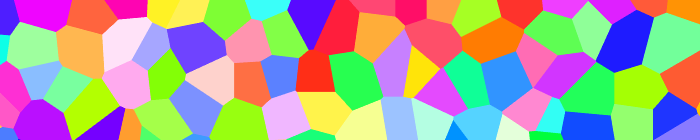
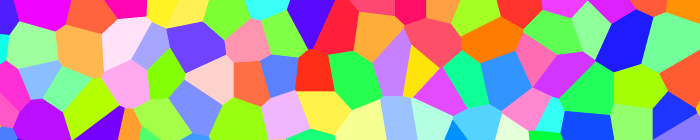
update png dependency

diff --git a/tests/noise/tests.swift b/tests/noise/tests.swift
@@ -1,25 +1,5 @@
 import Noise
-import MaxPNG
-
-func write_png(path:String, width:Int, height:Int, pixbytes:UnsafeBufferPointer<UInt8>, color:PNGProperties.ColorFormat)
-{
-    guard let properties = PNGProperties(width: width, height: height, bit_depth: 8, color: color, interlaced: false)
-    else
-    {
-        fatalError("failed to set png properties")
-    }
-
-    do
-    {
-        try png_encode( path: path,
-                        raw_data: pixbytes,
-                        properties: properties)
-    }
-    catch
-    {
-        print(error)
-    }
-}
+import PNG
 
 extension UInt8
 {
@@ -32,40 +12,32 @@ extension UInt8
 func color_noise_png(r_noise:Noise, g_noise:Noise, b_noise:Noise,
     width:Int, height:Int, value_offset:(r:Double, g:Double, b:Double), invert:Bool = false, path:String)
 {
-    let byte_count:Int = 3 * width * height
-    let pixbytes = UnsafeMutableBufferPointer<UInt8>(start: UnsafeMutablePointer<UInt8>.allocate(capacity: byte_count), count: byte_count)
-    defer
+    let domain:Domain2D         = .init(samples_x: width, samples_y: height)
+    let rgba:[PNG.RGBA<UInt8>]  = domain.map 
     {
-        pixbytes.baseAddress?.deallocate(capacity: pixbytes.count)
-    }
-
-    var i:Int = 0
-    for (x, y):(Double, Double) in Domain2D(samples_x: width, samples_y: height)
-    {
-        let r:UInt8 = UInt8(clamping: r_noise.evaluate(x, y) + value_offset.r),
-            g:UInt8 = UInt8(clamping: g_noise.evaluate(x, y) + value_offset.g),
-            b:UInt8 = UInt8(clamping: b_noise.evaluate(x, y) + value_offset.b)
+        (p:(x:Double, y:Double)) in 
+        
+        let r:UInt8 = .init(clamping: r_noise.evaluate(p.x, p.y) + value_offset.r),
+            g:UInt8 = .init(clamping: g_noise.evaluate(p.x, p.y) + value_offset.g),
+            b:UInt8 = .init(clamping: b_noise.evaluate(p.x, p.y) + value_offset.b)
         if invert
         {
-            pixbytes[i    ] = UInt8.max - r
-            pixbytes[i + 1] = UInt8.max - g
-            pixbytes[i + 2] = UInt8.max - b
+            return .init(.max - r, .max - g, .max - b)
         }
         else
         {
-            pixbytes[i    ] = r
-            pixbytes[i + 1] = g
-            pixbytes[i + 2] = b
+            return .init(r, g, b)
         }
-
-        i += 3
     }
-
-    write_png(  path: path,
-                width: width,
-                height: height,
-                pixbytes: UnsafeBufferPointer<UInt8>(start: pixbytes.baseAddress, count: pixbytes.count),
-                color: .rgb)
+    
+    do
+    {
+        try PNG.encode(rgba: rgba, size: (width, height), as: .rgb8, path: path)
+    }
+    catch
+    {
+        print(error)
+    }
 }
 
 func banner_classic3d(width:Int, height:Int, seed:Int)
@@ -173,87 +145,92 @@ func circle_at(cx:Double, cy:Double, r:Double, width:Int, height:Int, _ f:(Int, 
 
 func banner_disk2d(width:Int, height:Int, seed:Int)
 {
-    var poisson          = DiskSampler2D(seed: seed)
-    var pixbytes:[UInt8] = [UInt8](repeating: 255, count: 3 * width * height)
+    var poisson:DiskSampler2D       = .init(seed: seed)
+    var rgba:[PNG.RGBA<UInt8>]    = .init(repeating: .init(.max), count: width * height)
 
-    let points = poisson.generate(radius: 20, width: width, height: height, k: 80)
+    //let points = poisson.generate(radius: 20, width: width, height: height, k: 80)
 
     @inline(__always)
     func _dots(_ points:[(x:Double, y:Double)], color: (r:UInt8, g:UInt8, b:UInt8))
     {
         for point:(x:Double, y:Double) in points
         {
-            circle_at(cx: point.x, cy: point.y, r: 10, width: width, height: height,
+            circle_at(cx: point.x, cy: point.y, r: 10, width: width, height: height)
             {
                 (x:Int, y:Int, v:Double) in
 
-                let base_addr:Int = 3 * (y * width + x)
-                pixbytes[base_addr    ] = UInt8(clamping: Int(pixbytes[base_addr    ]) - Int(Double(color.r) * v))
-                pixbytes[base_addr + 1] = UInt8(clamping: Int(pixbytes[base_addr + 1]) - Int(Double(color.g) * v))
-                pixbytes[base_addr + 2] = UInt8(clamping: Int(pixbytes[base_addr + 2]) - Int(Double(color.b) * v))
-            })
+                let i:Int = y * width + x
+                rgba[i].r = .init(clamping: Int(rgba[i].r) - Int(Double(color.r) * v))
+                rgba[i].g = .init(clamping: Int(rgba[i].g) - Int(Double(color.g) * v))
+                rgba[i].b = .init(clamping: Int(rgba[i].b) - Int(Double(color.b) * v))
+            }
         }
     }
 
     _dots(poisson.generate(radius: 35, width: width, height: height, k: 80, seed: (10, 10)), color: (0, 210, 70))
     _dots(poisson.generate(radius: 25, width: width, height: height, k: 80, seed: (45, 15)), color: (0, 10, 235))
     _dots(poisson.generate(radius: 30, width: width, height: height, k: 80, seed: (15, 45)), color: (225, 20, 0))
-
-    pixbytes.withUnsafeBufferPointer
+    
+    do
     {
-        write_png(path: "tests/banner_disk2d.png", width: width, height: height, pixbytes: $0, color: .rgb)
+        try PNG.encode(rgba: rgba, size: (width, height), as: .rgb8, path: "tests/banner_disk2d.png")
+    }
+    catch
+    {
+        print(error)
     }
 }
 
 func banner_voronoi2d(width:Int, height:Int, seed:Int)
 {
     let voronoi:CellNoise2D = CellNoise2D(amplitude: 255, frequency: 0.025, seed: seed)
-    var pixbytes:[UInt8] = [UInt8](repeating: 0, count: 3 * width * height)
 
     let r:PermutationTable   = PermutationTable(seed: seed),
         g:PermutationTable   = PermutationTable(seed: seed + 1),
         b:PermutationTable   = PermutationTable(seed: seed + 2)
 
-    var base_addr:Int = 0
-    for y in 0 ..< height
+    let domain:Domain2D         = .init(samples_x: width, samples_y: height)
+    let rgba:[PNG.RGBA<UInt8>]  = domain.map 
     {
-        for x in 0 ..< width
+        (p:(x:Double, y:Double)) in 
+        
+        @inline(__always)
+        func _supersample(_ x:Double, _ y:Double) -> (r:UInt8, g:UInt8, b:UInt8)
         {
-            @inline(__always)
-            func _supersample(_ x:Double, _ y:Double) -> (r:UInt8, g:UInt8, b:UInt8)
-            {
-                let (point, _):((Int, Int), Double) = voronoi.closest_point(Double(x), Double(y))
-                let r:UInt8 = r.hash(point.0, point.1),
-                    g:UInt8 = g.hash(point.0, point.1),
-                    b:UInt8 = b.hash(point.0, point.1),
-                    peak:UInt8 = max(r, max(g, b)),
-                    saturate:Double = Double(UInt8.max) / Double(peak)
-                return (UInt8(Double(r) * saturate), UInt8(Double(g) * saturate), UInt8(Double(b) * saturate))
-            }
-
-            var r:Int = 0,
-                g:Int = 0,
-                b:Int = 0
-            let supersamples:[(Double, Double)] = [(0, 0), (0, 0.4), (0.4, 0), (-0.4, 0), (0, -0.4),
-                                                   (-0.25, -0.25), (0.25, 0.25), (-0.25, 0.25), (0.25, -0.25)]
-            for (dx, dy) in supersamples
-            {
-                let contribution:(r:UInt8, g:UInt8, b:UInt8) = _supersample(Double(x) + dx, Double(y) + dy)
-                r += Int(contribution.r)
-                g += Int(contribution.g)
-                b += Int(contribution.b)
-            }
-            pixbytes[base_addr    ] = UInt8(r / supersamples.count)
-            pixbytes[base_addr + 1] = UInt8(g / supersamples.count)
-            pixbytes[base_addr + 2] = UInt8(b / supersamples.count)
-
-            base_addr += 3
+            let (point, _):((Int, Int), Double) = voronoi.closest_point(Double(x), Double(y))
+            let r:UInt8 = r.hash(point.0, point.1),
+                g:UInt8 = g.hash(point.0, point.1),
+                b:UInt8 = b.hash(point.0, point.1),
+                peak:UInt8 = max(r, max(g, b)),
+                saturate:Double = .init(UInt8.max) / .init(peak)
+            return (.init(.init(r) * saturate), .init(.init(g) * saturate), .init(.init(b) * saturate))
         }
-    }
 
-    pixbytes.withUnsafeBufferPointer
+        var r:Int = 0,
+            g:Int = 0,
+            b:Int = 0
+        let supersamples:[(Double, Double)] = [(0, 0), (0, 0.4), (0.4, 0), (-0.4, 0), (0, -0.4),
+                                               (-0.25, -0.25), (0.25, 0.25), (-0.25, 0.25), (0.25, -0.25)]
+        for (dx, dy):(Double, Double) in supersamples
+        {
+            let contribution:(r:UInt8, g:UInt8, b:UInt8) = _supersample(p.x + dx, p.y + dy)
+            r += .init(contribution.r)
+            g += .init(contribution.g)
+            b += .init(contribution.b)
+        }
+        
+        return .init(   .init(r / supersamples.count), 
+                        .init(g / supersamples.count), 
+                        .init(b / supersamples.count))
+    }
+    
+    do
     {
-        write_png(path: "tests/banner_voronoi2d.png", width: width, height: height, pixbytes: $0, color: .rgb)
+        try PNG.encode(rgba: rgba, size: (width, height), as: .rgb8, path: "tests/banner_voronoi2d.png")
+    }
+    catch
+    {
+        print(error)
     }
 }
 

diff --git a/tests/noise/main.swift b/tests/noise/main.swift
@@ -1,7 +1,5 @@
 import Noise
-import MaxPNG
-
-import Tests
+import PNG
 
 import func Glibc.clock
 
@@ -11,7 +9,6 @@ calibrate_noise(width: 256, height: 256)
 
 let viewer_size:Int = 1024
 var pixbuf:[UInt8]  = [UInt8](repeating: 0, count: viewer_size * viewer_size)
-let png_properties:PNGProperties = PNGProperties(width: viewer_size, height: viewer_size, bit_depth: 8, color: .grayscale, interlaced: false)!
 
 func benchmark<Generator>(noise generator:Generator, name:String, offset:Double = 0) where Generator:Noise
 {
@@ -21,7 +18,7 @@ func benchmark<Generator>(noise generator:Generator, name:String, offset:Double 
         pixbuf[i] = UInt8(max(0, min(255, generator.evaluate(x, y) + offset)))
     }
     print("\(name): \(clock() - t0)")
-    try! png_encode(path: "tests/\(name).png", raw_data: pixbuf, properties: png_properties)
+    try! PNG.encode(v: pixbuf, size: (viewer_size, viewer_size), as: .v8, path: "tests/\(name).png")
 }
 
 var poisson = DiskSampler2D(seed: 0)
@@ -31,7 +28,7 @@ for point:(x:Double, y:Double) in poisson.generate(radius: 10, width: viewer_siz
     pixbuf[Int(point.y) * viewer_size + Int(point.x)] = 255
 }
 print("disk2d: \(clock() - t0)")
-try png_encode(path: "tests/disk2d.png", raw_data: pixbuf, properties: png_properties)
+try PNG.encode(v: pixbuf, size: (viewer_size, viewer_size), as: .v8, path: "tests/disk2d.png")
 
 benchmark(noise: CellNoise2D(amplitude: 255, frequency: 0.01), name: "cell2d")
 benchmark(noise: CellNoise3D(amplitude: 255, frequency: 0.01), name: "cell3d")

diff --git a/tests/noise/calibrate.swift b/tests/noise/calibrate.swift
@@ -1,25 +1,24 @@
 import Noise
-import MaxPNG
+import PNG
 
 func grayscale_noise_png(noise:Noise, width:Int, height:Int, value_offset:Double, path:String)
 {
-    let byte_count:Int = width * height
-    let pixbytes = UnsafeMutableBufferPointer<UInt8>(start: UnsafeMutablePointer<UInt8>.allocate(capacity: byte_count), count: byte_count)
-    defer
+    let domain:Domain2D = .init(-2 ... 2, -2 ... 2, samples_x: width, samples_y: height)
+    let v:[UInt8]       = domain.enumerated().map 
     {
-        pixbytes.baseAddress?.deallocate(capacity: pixbytes.count)
+        (element:(Int, (x:Double, y:Double))) in
+        
+        return .init(clamping: noise.evaluate(element.1.x, element.1.y) + value_offset)
     }
 
-    for (i, (x, y)) in Domain2D(-2 ... 2, -2 ... 2, samples_x: width, samples_y: height).enumerated()
+    do
     {
-        pixbytes[i] = UInt8(clamping: noise.evaluate(x, y) + value_offset)
+        try PNG.encode(v: v, size: (width, height), as: .v8, path: path)
     }
-
-    write_png(  path: path,
-                width: width,
-                height: height,
-                pixbytes: UnsafeBufferPointer<UInt8>(start: pixbytes.baseAddress, count: pixbytes.count),
-                color: .grayscale)
+    catch
+    {
+        print(error)
+    }
 }
 
 public

diff --git a/Package.swift b/Package.swift
@@ -1,22 +1,21 @@
-// swift-tools-version:4.0
+// swift-tools-version:4.2
 
 import PackageDescription
 
 let package = Package(
     name: "Noise",
-    products: [
-        .library(name: "Noise", targets: ["Noise"])
+    products: 
+    [
+        .library(name: "Noise", targets: ["Noise"]),
+        .executable(name: "noise-tests", targets: ["NoiseTests"])
     ],
-    dependencies: [
-        .package(url: "https://github.com/kelvin13/maxpng", from: "2.0.0")
+    dependencies: 
+    [
+        .package(url: "https://github.com/kelvin13/png", .exact("3.0.0"))
     ],
-    targets: [
-        .target(
-            name: "Noise",
-            path: "sources/noise"),
-        .testTarget(
-            name: "Tests",
-            dependencies: ["Noise", "MaxPNG"],
-            path: "tests/noise"),
+    targets: 
+    [
+        .target(name: "Noise", path: "sources/noise"),
+        .target(name: "NoiseTests", dependencies: ["Noise", "PNG"], path: "tests/noise")
     ]
 )

diff --git a/README.md b/README.md
@@ -16,4 +16,4 @@
 
 ## Building
 
-Build *Noise* with the Swift Package Manager. *Noise* itself has no dependencies, but the tests depend on [MaxPNG](https://github.com/kelvin13/maxpng), my free Swift PNG library, to view the generated noise.
+Build *Noise* with the Swift Package Manager. *Noise* itself has no dependencies, but the tests depend on [PNG](https://github.com/kelvin13/png), my free Swift PNG library, to view the generated noise.
